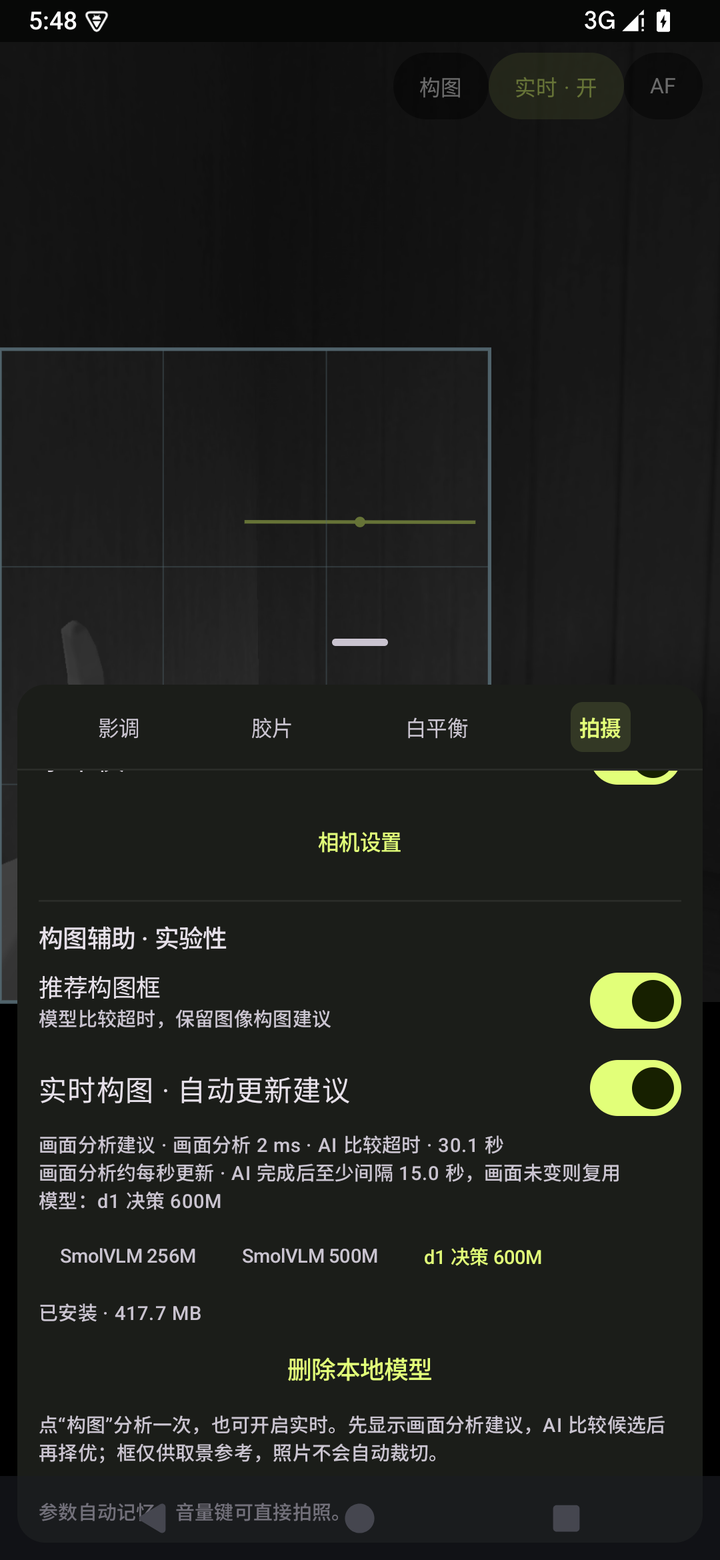
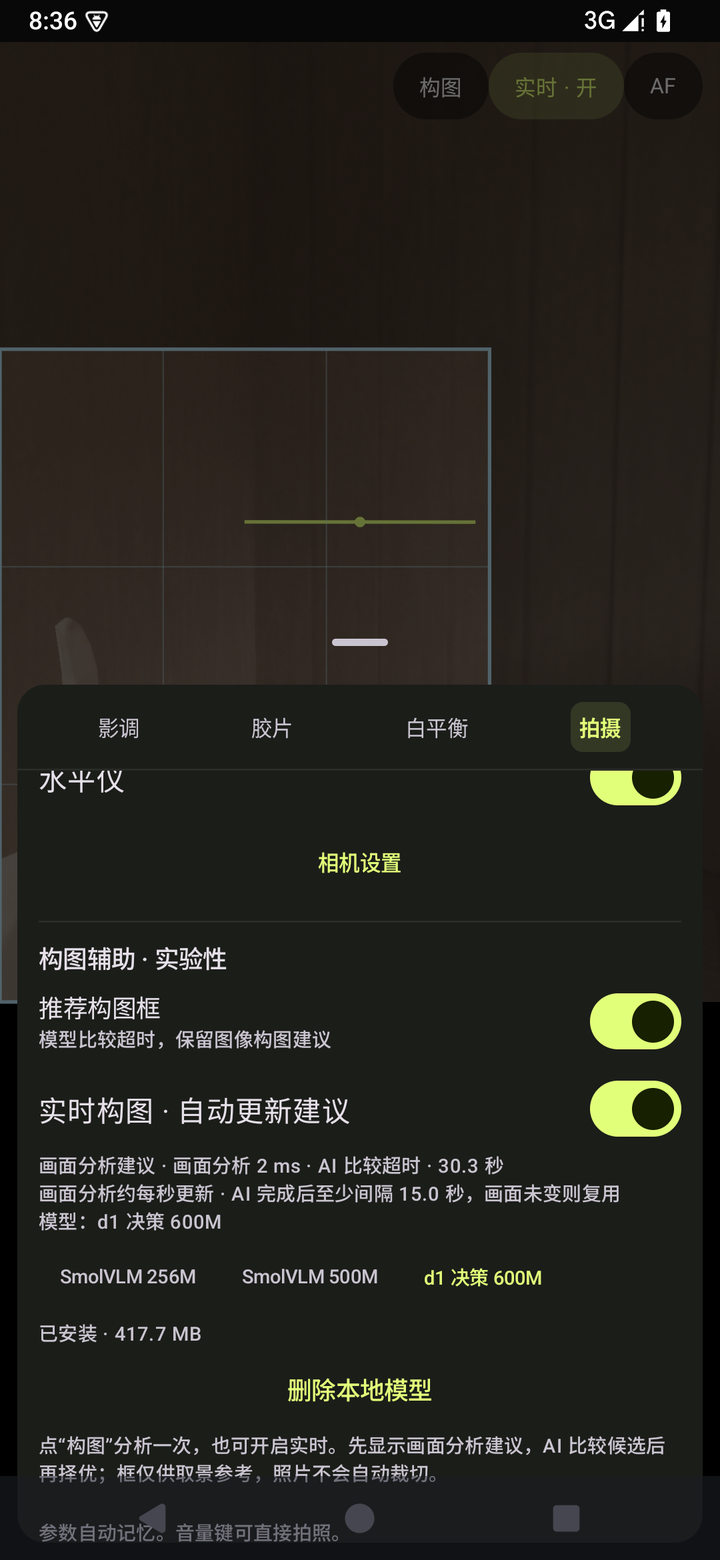
fix: default on-device composition ranker to d1-omni-600m
实时构图推荐实际运行的 ranker 与 UI/文档长期不一致：README 模型表早已
声明 d1 决策 600M 为当前推荐与默认，但代码里 5 处默认/兜底 id 仍硬编码
smolvlm-256m，导致全新安装与升级后"模型："行高亮 SmolVLM 256M，而 README
截图与实际调用约定都指向 d1。

运行时分发本就按所选 id 的 kind 选择（D1_OMNI_CHOICE→D1OmniRuntime、
SMOLVLM_CHOICE→SmolVlmRuntime），UI 芯片与已安装状态也全部由同一 id 动态
驱动，所以只改显示文案反而会制造真正的错配；根因是默认 id 漂移。

- 新增 EdgeModelCatalog.DEFAULT_MODEL_ID = "d1-omni-600m" 作为单一事实源，
  收敛 AppSettings 默认值、JSON 编解码兜底、CompositionAssistant 配置兜底
  共 5 处，未知/遗留 id 统一回退到它
- 显式选择仍被保留，不做静默迁移（debug 评测工具继续显式用 smolvlm-256m）
- SettingsJsonTest 新增不变量：全新安装默认 d1(kind=D1_OMNI_CHOICE)、缺字段
  与未知 id 回退、已上架的显式选择保留
- 重截 docs/images/edge-models.png：d1 芯片高亮 + 已安装 417.7MB，状态行
  为真实的画面分析 2ms / AI 比较超时 30.3s（qemu 软件渲染下超 30s 预算）

AVD(emulator-5580, 1080×2340) 实测：构图辅助面板"模型：d1 决策 600M"、
d1 芯片高亮、已安装 417.7MB。:app:testDebugUnitTest 与 :app:assemblePreview
通过。模拟器耗时不外推真机 NPU/GPU。

diff --git a/app/src/main/java/dev/streetsnap/app/SettingsRepository.kt b/app/src/main/java/dev/streetsnap/app/SettingsRepository.kt
@@ -56,7 +56,7 @@ data class AppSettings(
     val captureOrientation: String = CameraPreferences.DEFAULT_ORIENTATION,
     val compositionEnabled: Boolean = false,
     val compositionRealtime: Boolean = false,
-    val compositionModel: String = "smolvlm-256m",
+    val compositionModel: String = EdgeModelCatalog.DEFAULT_MODEL_ID,
     val looks: Map<String, LookSettings> = emptyMap(),
     val lutName: String? = null,
     val hdfEnabled: Boolean = false,
@@ -131,7 +131,7 @@ internal object SettingsJson {
         put("captureOrientation", CameraPreferences.orientation(settings.captureOrientation))
         put("compositionEnabled", settings.compositionEnabled)
         put("compositionRealtime", settings.compositionRealtime)
-        put("compositionModel", EdgeModelCatalog.find(settings.compositionModel)?.id ?: "smolvlm-256m")
+        put("compositionModel", EdgeModelCatalog.find(settings.compositionModel)?.id ?: EdgeModelCatalog.DEFAULT_MODEL_ID)
         put("lutName", settings.lutName ?: JSONObject.NULL)
         put("looks", JSONObject().apply {
             settings.looks.forEach { (preset, look) ->
@@ -198,7 +198,7 @@ internal object SettingsJson {
                 captureOrientation = CameraPreferences.orientation(json.optString("captureOrientation")),
                 compositionEnabled = json.optBoolean("compositionEnabled", false),
                 compositionRealtime = json.optBoolean("compositionRealtime", false),
-                compositionModel = EdgeModelCatalog.find(json.optString("compositionModel"))?.id ?: "smolvlm-256m",
+                compositionModel = EdgeModelCatalog.find(json.optString("compositionModel"))?.id ?: EdgeModelCatalog.DEFAULT_MODEL_ID,
                 looks = looks,
                 lutName = if (json.isNull("lutName")) null else json.optString("lutName").takeIf(String::isNotBlank)?.take(120),
                 hdfEnabled = json.optBoolean("hdfEnabled", false),

diff --git a/app/src/test/java/dev/streetsnap/app/SettingsJsonTest.kt b/app/src/test/java/dev/streetsnap/app/SettingsJsonTest.kt
@@ -1,5 +1,7 @@
 package dev.streetsnap.app
 
+import dev.streetsnap.app.edge.EdgeModelCatalog
+import dev.streetsnap.app.edge.EdgeModelKind
 import dev.streetsnap.color.ColorPreset
 import dev.streetsnap.color.FilmRegistry
 import org.json.JSONObject
@@ -210,5 +212,20 @@ class SettingsJsonTest {
         val encoded = SettingsJson.decode(SettingsJson.encode(AppSettings(mascotCamera = "UNKNOWN", captureOrientation = "UNKNOWN")))
         assertEquals("RICOH_GR", encoded.mascotCamera)
         assertEquals("AUTO", encoded.captureOrientation)
+    }
+
+    @Test fun freshInstallSelectsTheRecommendedD1RankerAndUnknownIdsFallBack() {
+        assertEquals("d1-omni-600m", EdgeModelCatalog.DEFAULT_MODEL_ID)
+        assertEquals(EdgeModelCatalog.DEFAULT_MODEL_ID, AppSettings().compositionModel)
+        assertEquals(EdgeModelKind.D1_OMNI_CHOICE,
+            EdgeModelCatalog.find(AppSettings().compositionModel)!!.kind)
+        // A document without the field (upgrades) and one with a removed/unknown id both recover to the default.
+        assertEquals(EdgeModelCatalog.DEFAULT_MODEL_ID,
+            SettingsJson.decode("""{"version":4,"preset":"MONO"}""").compositionModel)
+        assertEquals(EdgeModelCatalog.DEFAULT_MODEL_ID,
+            SettingsJson.decode("""{"version":4,"compositionModel":"removed-model"}""").compositionModel)
+        // An explicit, still-shipped selection is preserved rather than silently migrated.
+        assertEquals("smolvlm-256m",
+            SettingsJson.decode("""{"version":4,"compositionModel":"smolvlm-256m"}""").compositionModel)
     }
 }

diff --git a/app/src/main/java/dev/streetsnap/app/CompositionAssistant.kt b/app/src/main/java/dev/streetsnap/app/CompositionAssistant.kt
@@ -45,7 +45,7 @@ internal enum class AssistStatus { OFF, UNINSTALLED, PAUSED, LOADING, READY, FAI
 internal enum class CompositionOutcome { RETURNED, NO_RESULT, UNSTABLE_SELECTION, TIMED_OUT, SCENE_CHANGED, FAILED }
 internal enum class AdviceOrigin { IMAGE_ANALYSIS, MODEL_SELECTION }
 internal data class CompositionUiState(
-    val modelId: String = "smolvlm-256m",
+    val modelId: String = EdgeModelCatalog.DEFAULT_MODEL_ID,
     val install: ModelInstallStatus = ModelInstallStatus.CHECKING,
     val bytes: Long? = null,
     val downloadedBytes: Long = 0,
@@ -128,7 +128,7 @@ internal class CompositionAssistant(context: Context, private val scope: Corouti
     fun configure(id: String, enabled: Boolean, foreground: Boolean, realtime: Boolean = false, focalLengthMm: Int = 28) {
         if (closed) return
         this.focalLengthMm = focalLengthMm.takeIf { it > 0 } ?: 28
-        val next = Configuration(EdgeModelCatalog.find(id)?.id ?: "smolvlm-256m", enabled, foreground, realtime)
+        val next = Configuration(EdgeModelCatalog.find(id)?.id ?: EdgeModelCatalog.DEFAULT_MODEL_ID, enabled, foreground, realtime)
         if (configuration == next) return
         val changedModel = configuration?.id != next.id
         configuration = next

diff --git a/app/src/main/java/dev/streetsnap/app/edge/EdgeModelCatalog.kt b/app/src/main/java/dev/streetsnap/app/edge/EdgeModelCatalog.kt
@@ -26,6 +26,9 @@ data class EdgeModelEntry(
 }
 
 object EdgeModelCatalog {
+    /** The ranker a fresh install selects and unknown/legacy ids fall back to. */
+    const val DEFAULT_MODEL_ID = "d1-omni-600m"
+
     val models = listOf(
         EdgeModelEntry(
             "smolvlm-256m", "SmolVLM 256M", "HuggingFaceTB/SmolVLM-256M-Instruct",

diff --git a/docs/images/README.md b/docs/images/README.md
@@ -4,7 +4,7 @@
 
 - `viewfinder.png`（720×1560，竖屏 1080×2340 截图缩放）：全屏取景器、三分网格、画面分析（规则）蓝色推荐框与中文建议卡；状态行实时显示来源与耗时（此图为「画面分析建议 · 画面分析 2 ms · AI 比较不稳定 · 28.9 秒」，模型两轮选择不一致时如实保留蓝框）；底部渐变浮层为焦段分段条、缩略图、居中快门与「调整」入口，顶部为构图/实时/AF 胶囊。
 - `camera-picker.png`（720×1560）：控制面板「拍摄」分区→「相机设置」里的相机摆件选择弹窗，五款相机与取景方向（自动/横持/竖持）；摆件只改变外观，影调单独选择。五款摆件按真机轮廓特征区分（原创矢量、非产品图）：理光 GR 扁宽平顶+左侧握把+居中定焦镜头，富士 X100VI 银色顶盖+左右双转盘+右上混合取景方窗+银环镜头，适马 fp 直角方块+无握把无窗+四角螺丝+居中卡口，松下 LX100 II 非对称台阶顶（左双转盘、右上 EVF 高台）+突出大镜头+小握把，尼康 F3 高耸五棱镜+过片扳手+握把红竖线；影调分区顶栏的同款缩略图为 76×48dp。
-- `edge-models.png`（720×1560）：控制面板「拍摄」分区底部的构图辅助管理——推荐框/实时两个开关、三个可选端侧模型（SmolVLM 256M/500M、d1 决策 600M）与已安装 417.7MB 状态。此图状态行是真实的「画面分析建议 · 画面分析 2 ms · AI 比较超时 · 30.1 秒」：d1 双轮在该模拟器软件渲染下超过 30s 总预算，界面超时降级、保留画面分析建议，副文案随状态切为「模型比较超时，保留图像构图建议」。
+- `edge-models.png`（720×1560）：控制面板「拍摄」分区底部的构图辅助管理——推荐框/实时两个开关、三个可选端侧模型（SmolVLM 256M/500M、d1 决策 600M）与已安装 417.7MB 状态。「模型：」行与高亮芯片如实显示当前实际选用的 ranker：默认即 d1 决策 600M（与 README 模型表一致；运行时按所选模型 id 的 kind 分发，UI 不写死模型名），此图为 d1 芯片高亮、已安装 417.7MB。状态行是真实的「画面分析建议 · 画面分析 2 ms · AI 比较超时 · 30.3 秒」：d1 双轮在该模拟器软件渲染下超过 30s 总预算，界面超时降级、保留画面分析建议，副文案随状态切为「模型比较超时，保留图像构图建议」。
 - `model-adoption.png`（1170×540，横屏原尺寸未缩放）：端侧模型通过门闸、推荐框升级为黄色「AI 选择」的真实截图。
 
 蓝色推荐框来自当前图像统计（画面分析建议），黄色框只在端侧模型对同一帧 A/B/C 候选的两轮选择都一致、且领先差距超过门限时出现。中文提示来自候选的规则理由，不伪装成模型生成。模型未选择、弃权、选择不稳定、超时或未安装时一律保留画面分析建议，界面状态行如实标注。
